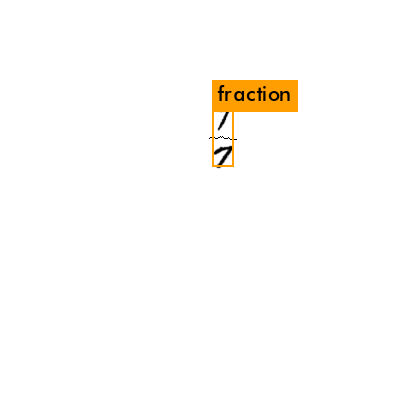
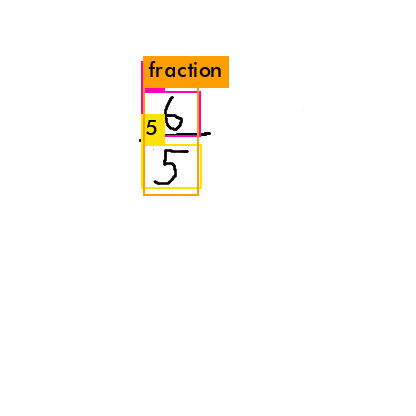
equation generator incorperates fractions

Changed region(s): [[0.3125, 0.125, 0.7188, 0.5]]

diff --git a/mlTests/dataGeneration/Objects/equation.py b/mlTests/dataGeneration/Objects/equation.py
@@ -1,7 +1,9 @@
 import numpy as np
 import random
+from functools import reduce
 from Objects.character import Character
 from Objects.operator import Operator
+from Objects.fraction import Fraction
 
 class Equation:
     EQUATION_ID = 41
@@ -19,39 +21,33 @@ class Equation:
     def generateStructure(self):
         currObjectStart = 0
         lastWasNumber = False
+        lastWasFraction = False
+        lastWasOperator = False
 
+        lastValue = random.choice([Character(), Fraction()])
         for k in range(self.equationLength):
-            if lastWasNumber is False:
-                newCharacter = Character()
-                lastWasNumber = True
-                self.length += newCharacter.length
-                self.objects.append(newCharacter)
-                self.objectsStart.append(currObjectStart)
-                currObjectStart += newCharacter.length
-            else:
-                lastWasNumber = random.choice([True, False])
-                if lastWasNumber is True:
-                    newCharacter = Character()
-                    self.length += newCharacter.length
-                    self.objects.append(newCharacter)
-                    self.objectsStart.append(currObjectStart)
-                    currObjectStart += newCharacter.length
-                else:
-                    newOperator = Operator()
-                    self.length += newOperator.length
-                    self.objects.append(newOperator)
-                    self.objectsStart.append(currObjectStart)
-                    currObjectStart += newOperator.length
-        
+            #print(str(type(lastValue)))
+            self.length += lastValue.length
+            self.objects.append(lastValue)
+            self.objectsStart.append(currObjectStart)
+            currObjectStart += lastValue.length
+
+            if isinstance(lastValue, Character):
+                lastValue = random.choice([Character(), Operator()])
+            elif isinstance(lastValue, Fraction):
+                lastValue = Operator()
+            elif isinstance(lastValue, Operator):
+                lastValue = random.choice([Character(), Fraction()])
+
+            print(type(lastValue))            
+
     def createArray(self):
         self.array = np.zeros([self.height,self.length,3],dtype=np.uint8)
         self.array.fill(255)
 
         for i in range(len(self.objects)):
             for j in range(self.objects[i].length):
-                for k in range(self.objects[i].height-1):
-                    #print(self.array.shape)
-                    #print(self.objects[i].array.shape)
+                for k in range(self.objects[i].height):
                     self.array[k][self.objectsStart[i]+j] = self.objects[i].array[k][j]
 
     def createYoloLabel(self, topLeftX, topLeftY, canvasXSize, canvasYSize):
@@ -66,8 +62,13 @@ class Equation:
         annotations.append(annotation)
 
         for i in range(len(self.objects)):
-            annotations.append(self.objects[i].createYoloLabel(topLeftX+self.objectsStart[i], topLeftY, canvasXSize, canvasYSize))
-
+            label = self.objects[i].createYoloLabel(topLeftX+self.objectsStart[i], topLeftY, canvasXSize, canvasYSize)
+            if type(label[0]) is type([]):
+                for annotation in label:
+                    annotations.append(annotation)
+            else:
+                annotations.append(label)
+       
         return annotations
 
     def getHeight(self):

diff --git a/mlTests/dataGeneration/Objects/operator.py b/mlTests/dataGeneration/Objects/operator.py
@@ -1,13 +1,35 @@
 import numpy as np
 import random
-x_operators = np.load('./../../../mlTestData/symbols/x_operators.npy')
-y_operators= np.load('./../../../mlTestData/symbols/y_operators.npy')
+x_operators = np.load('./../../../mlTestData/symbols/hasyData.npy')
+y_operators= np.load('./../../../mlTestData/symbols/hasyLabels.npy')
+
+x_standard_operators = []
+y_standard_operators = []
+
+for i in range(0,len(x_operators)):
+    label = str(y_operators[i])
+    if label is "+":
+        x_standard_operators.append(x_operators[i])
+        y_standard_operators.append(36)
+    elif label is "-":
+        x_standard_operators.append(x_operators[i])
+        y_standard_operators.append(37)
+    elif label is "times":
+        x_standard_operators.append(x_operators[i])
+        y_standard_operators.append(38)
+    elif label is "cdot":
+        x_standard_operators.append(x_operators[i])
+        y_standard_operators.append(38)
+    elif label is "/":
+        x_standard_operators.append(x_operators[i])
+        y_standard_operators.append(39)
+
 
 class Operator:
     def __init__(self):
-        imageIndex = random.randint(0, len(x_operators)-1)
-        self.array = x_operators[imageIndex]
-        self.label = y_operators[imageIndex]
+        imageIndex = random.randint(0, len(x_standard_operators)-1)
+        self.array = x_standard_operators[imageIndex]
+        self.label = y_standard_operators[imageIndex]
         self.length = x_operators[0].shape[1]
         self.height = x_operators[0].shape[0]
 

diff --git a/mlTests/dataGeneration/Objects/fraction.py b/mlTests/dataGeneration/Objects/fraction.py
@@ -3,7 +3,7 @@ import random
 from Objects.character import Character
 from PIL import Image 
 class Fraction: 
-    FRACTION_ID = 36
+    FRACTION_ID = 40
 
     def __init__(self):
         self.char1 = Character()
